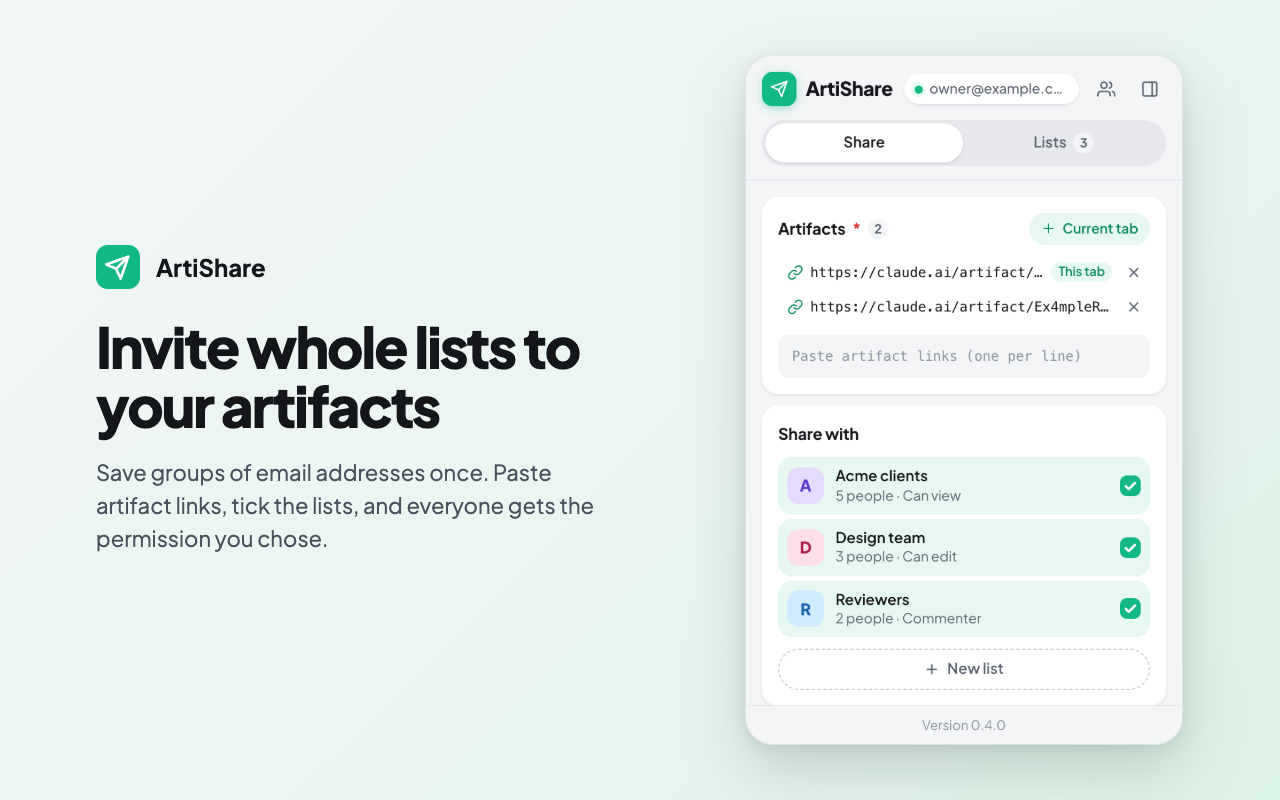
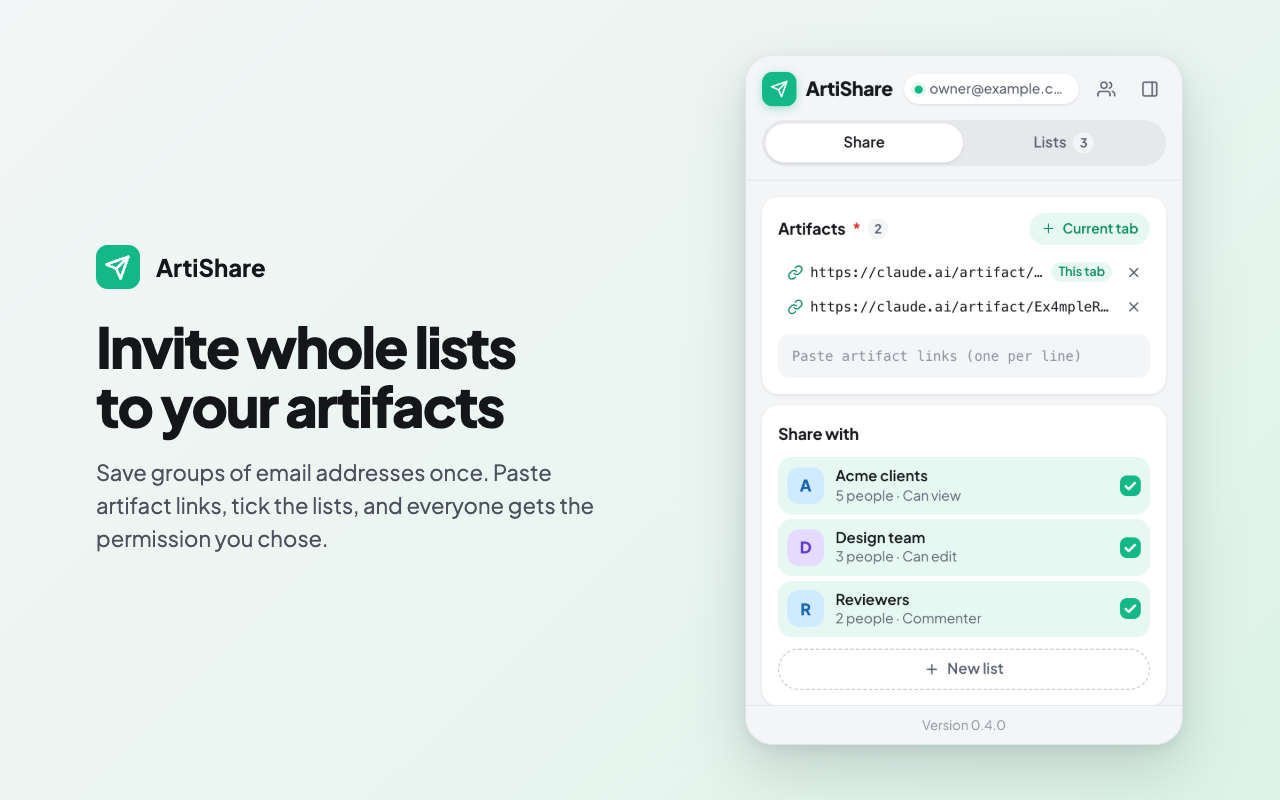
Add store screenshots for Manage access and Save to a list

Changed region(s): [[0.0625, 0.4688, 0.4062, 0.5625], [0.5938, 0.6562, 0.6562, 0.7188], [0.4062, 0.4062, 0.4688, 0.4688]]

diff --git a/scripts/screenshots.spec.ts b/scripts/screenshots.spec.ts
@@ -81,7 +81,8 @@ async function storeImage(popupPng: string, out: string, headline: string, lead:
       flex-direction: column; justify-content: center; gap: 22px; }
     .brand { display: flex; align-items: center; gap: 16px; font-size: 24px; font-weight: 700; }
     .brand img { width: 44px; height: 44px; }
-    h1 { margin: 6px 0 0; font-size: 56px; line-height: 1.04; letter-spacing: -0.035em; font-weight: 800; }
+    h1 { margin: 6px 0 0; font-size: 56px; line-height: 1.04; letter-spacing: -0.035em; font-weight: 800;
+      text-wrap: balance; }
     p { margin: 0; font-size: 22px; line-height: 1.5; color: #4b525d; max-width: 520px; }
     .frame { position: absolute; right: 97px; top: 50%; transform: translateY(-50%); width: 438px;
       border-radius: 28px; overflow: hidden; border: 1px solid #dfe3e8;
@@ -201,6 +202,7 @@ test('regenerate the README and store screenshots', async () => {
   await expect(people.filter({ hasText: 'Not in a list' })).toHaveCount(2);
   await expect(share.getByText("2 people aren't in any of your lists.")).toBeVisible();
   await snap(popup, `${DOCS}/manage.png`);
+  await snap(popup, test.info().outputPath('store-manage.png'));
 
   // 5. Save to a list: the two people in no list, ticked, with New list picked and a name typed.
   await share.getByRole('button', { name: 'Save to a list' }).click();
@@ -211,6 +213,12 @@ test('regenerate the README and store screenshots', async () => {
   await expect(save.getByRole('radio', { name: 'New list' })).toBeChecked();
   await save.getByLabel('Name').fill('Pending reviewers');
   await snap(popup, `${DOCS}/manage-save.png`, true);
+  // The store picture adds to the existing Partners list instead: that form is shorter, so it fits
+  // from the top with nothing cut off.
+  await share.getByRole('radio', { name: 'Add to an existing list' }).check();
+  await share.getByLabel('List', { exact: true }).selectOption({ label: 'Partners (1 address)' });
+  await expect(share.getByRole('button', { name: 'Add 2 people to Partners' })).toBeEnabled();
+  await snap(popup, test.info().outputPath('store-manage-save.png'));
 
   const shot = (name: string) => test.info().outputPath(`store-${name}.png`);
   await storeImage(
@@ -230,6 +238,18 @@ test('regenerate the README and store screenshots', async () => {
     `${STORE}/screenshot-3-done.png`,
     'Invites go out for you, one at a time',
     'Follow each invite as it goes. If claude.ai asks it to slow down, the run waits and retries.',
+  );
+  await storeImage(
+    shot('manage'),
+    `${STORE}/screenshot-4-manage.png`,
+    'See who has access, and which list they’re in',
+    'Manage access lists everyone on the artifact you are on. Change a permission, remove someone, or spot who isn’t in a list yet.',
+  );
+  await storeImage(
+    shot('manage-save'),
+    `${STORE}/screenshot-5-save.png`,
+    'Save everyone invited to a list',
+    'People with access who aren’t in a list go into a new list or one you already have, ready for the next share.',
   );
   await context.close();
 

diff --git a/e2e/F013.spec.ts b/e2e/F013.spec.ts
@@ -83,7 +83,7 @@ test('the README shows manage-save.png right beside manage.png, with alt text fo
 });
 
 test('the store screenshots stay 1280×800', () => {
-  for (const name of ['1-share', '2-preview', '3-done']) {
+  for (const name of ['1-share', '2-preview', '3-done', '4-manage', '5-save']) {
     expect(size(`store/images/screenshot-${name}.png`), name).toEqual({ width: 1280, height: 800 });
     expect(source, name).toContain(`screenshot-${name}.png`);
   }

diff --git a/store/listing.md b/store/listing.md
@@ -50,12 +50,12 @@ ArtiShare is an independent tool. It isn't made, endorsed or supported by Anthro
 
 **Graphic assets:**
 
-| Field              | File                                                                                                                                                                                                   |
-| ------------------ | ------------------------------------------------------------------------------------------------------------------------------------------------------------------------------------------------------ |
-| Store icon         | [`public/icon/128.png`](../public/icon/128.png)                                                                                                                                                        |
-| Screenshots        | [`images/screenshot-1-share.png`](images/screenshot-1-share.png), [`images/screenshot-2-preview.png`](images/screenshot-2-preview.png), [`images/screenshot-3-done.png`](images/screenshot-3-done.png) |
-| Small promo tile   | [`images/promo-tile-440x280.png`](images/promo-tile-440x280.png)                                                                                                                                       |
-| Marquee promo tile | Leave empty. It's optional.                                                                                                                                                                            |
+| Field              | File                                                                                                                                                                                                                                                                                                                                       |
+| ------------------ | ------------------------------------------------------------------------------------------------------------------------------------------------------------------------------------------------------------------------------------------------------------------------------------------------------------------------------------------ |
+| Store icon         | [`public/icon/128.png`](../public/icon/128.png)                                                                                                                                                                                                                                                                                            |
+| Screenshots        | [`images/screenshot-1-share.png`](images/screenshot-1-share.png), [`images/screenshot-2-preview.png`](images/screenshot-2-preview.png), [`images/screenshot-3-done.png`](images/screenshot-3-done.png), [`images/screenshot-4-manage.png`](images/screenshot-4-manage.png), [`images/screenshot-5-save.png`](images/screenshot-5-save.png) |
+| Small promo tile   | [`images/promo-tile-440x280.png`](images/promo-tile-440x280.png)                                                                                                                                                                                                                                                                           |
+| Marquee promo tile | Leave empty. It's optional.                                                                                                                                                                                                                                                                                                                |
 
 **Homepage URL:** https://vantung220902.github.io/ArtiShare/
 
